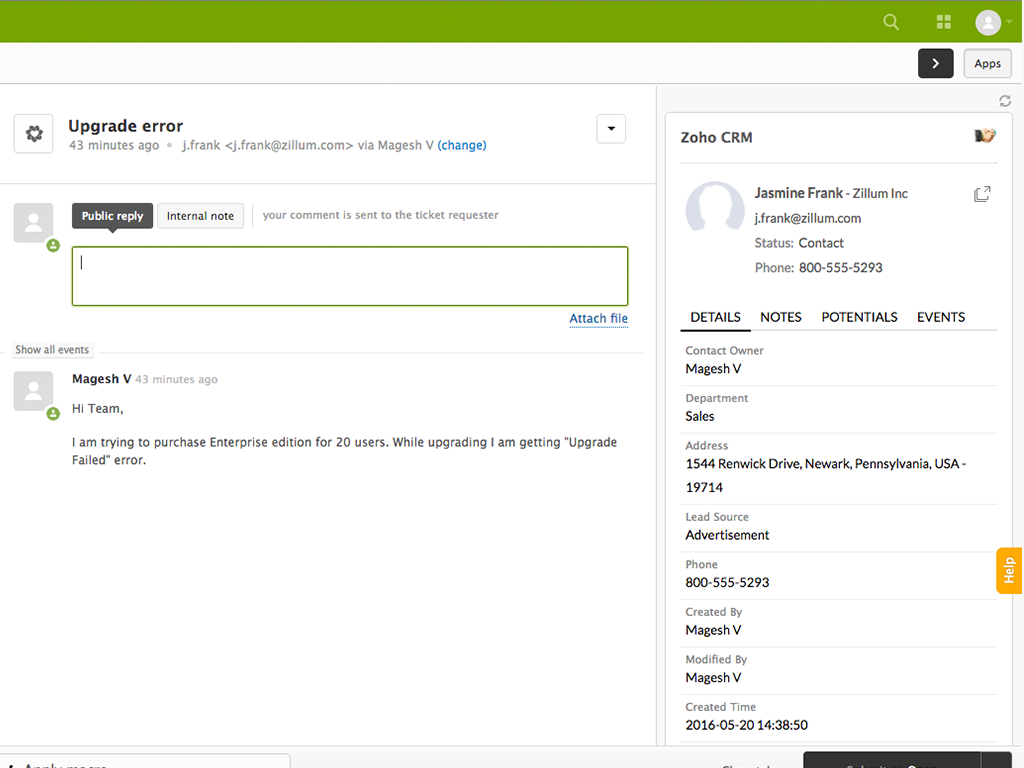
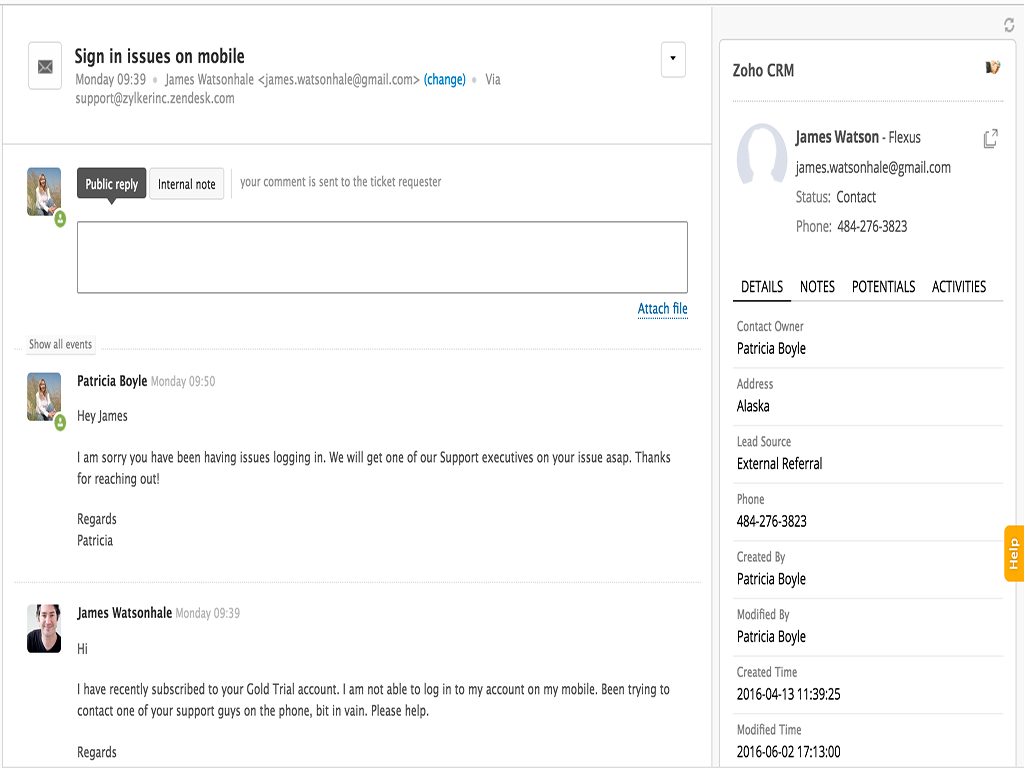
Open Activities provided
Giving Open Activities for the CRM Contact / Lead / Account

diff --git a/app.js b/app.js
@@ -19,6 +19,10 @@
       'get_zcrm_account_info.fail': 'handleFailure',
       'get_related_records.done': 'showRelatedRecords',
       'get_related_records.fail': 'handleSubTabFailure',
+      'get_activities.done': 'showActivities',
+      'get_activities.fail': 'handleSubTabFailure',
+      'get_open_activities.done': 'showOpenActivities',
+      'get_open_activities.fail': 'handleSubTabFailure',
       'click .open-model': function() {
       	if (!this.$('#popupview-model').is(':visible')) {
       		// show popup if its not already open
@@ -54,8 +58,8 @@
       'click .potentials': function() {
       	this.switchSubTab('potentials', 'Potentials');
       },
-      'click .events': function() {
-      	this.switchSubTab('events', 'Events');
+      'click .open_activities': function() {
+      	this.switchSubTab('open_activities', 'Activities');
       },
       'click .open-account': function() {
       	if (!this.$('#popupview-model').is(':visible')) {
@@ -486,24 +490,6 @@
 				finalData.template_name = 'products';
 				finalData.products = productsJson;
 			}
-			else if (relatedModule == 'Events') {
-				var eventsJson = [];
-				_.each(new_records_array, function(record) {
-					var eventInfo = {};
-
-					eventInfo['subject'] = record['Subject'];
-					eventInfo.link = helpers.fmt('%@/crm/EntityInfo.do?module=Events&id=%@', ZOHOCRM_URL, record['ACTIVITYID']);
-					eventInfo['owner'] = record['Event Owner'];
-					eventInfo['start_time'] = record['Start DateTime'];
-					eventInfo['end_time'] = record['End DateTime'];
-					eventInfo['venue'] = (_.has(record, 'Venue') ? record['Venue'] : "--");
-
-					eventsJson.push(eventInfo);
-				});
-
-				finalData.template_name = 'events_activity';
-				finalData.events = eventsJson;
-			}
 		}
 
 		if (typeof(finalData.template_name) == "undefined") {
@@ -513,8 +499,129 @@
 		this.$('.data_div').html(html);
 	},
 
+	showActivities: function(data) {
+		if (typeof(data.relations) != "undefined") {
+			var recordId = this.crm_data.rec_id;
+			var href_val = '';
+
+			_.each(data.relations, function(relation) {
+				if (relation.name === "Activities" && relation.module === "Activities") {
+					href_val = relation.href;
+				}
+			});
+
+			if (href_val !== '') {
+				this.fetchZCRMOpenActivities(href_val, recordId);
+				return;
+			}
+		}
+		
+		this.showSpinner(false);
+		var html = this.renderTemplate('subtab-nodata', {});
+		this.$('.data_div').html(html);
+	},
+
+	showOpenActivities: function(data) {
+		this.showSpinner(false);
+
+		if (typeof(data) == "undefined" || typeof(data.data) == "undefined") {
+			var html = this.renderTemplate('subtab-nodata', {});
+			this.$('.data_div').html(html);
+		}
+		else {
+			var activitiesJson = [];
+			var current_obj = this;
+			_.each(data.data, function(activity) {
+				var activity_id = activity.id;
+				var activity_type = activity.Activity_Type;
+				var activity_owner = activity.Activity_Owner.name;
+				var subject = activity.Subject;
+				var is_event = false;
+				var is_task = false;
+				var is_call = false;
+
+				var orig_activity_owner = activity_owner;
+				if (activity_owner.length > 20) {
+					activity_owner = activity_owner.substring(0, 20) + "...";
+				}
+				var orig_subject = subject;
+				if (subject.length > 30) {
+					subject = subject.substring(0, 30) + "...";
+				}
+
+				var activityInfo = {};
+				activityInfo['type'] = activity_type;
+				activityInfo['owner'] = activity_owner;
+				activityInfo['orig_owner'] = orig_activity_owner;
+				activityInfo['subject'] = subject;
+				activityInfo['orig_subject'] = orig_subject;
+				activityInfo['link'] = helpers.fmt('%@/crm/EntityInfo.do?module=%@&id=%@', current_obj.resources.ZOHOCRM_URL, activity_type, activity_id);
+
+				if (activity_type == 'Events') {
+					is_event = true;
+
+					var date_str = '';
+					var time_str = '';
+					var venue = '';
+
+					var start_datetime = activity.Start_DateTime;
+					var date_obj = new Date(Date.parse(start_datetime));
+					date_str = current_obj.formatDate(date_obj, 'dd/MM/yyyy');
+					time_str = current_obj.formatDate(date_obj, 'HH:mm t');
+
+					if (typeof(activity.Venue) != 'undefined' && activity.Venue != 'null') {
+						venue = activity.Venue;
+					}
+
+					activityInfo['date'] = date_str;
+					activityInfo['time'] = time_str;
+					activityInfo['venue'] = venue;
+				}
+				else if (activity_type == 'Tasks') {
+					is_task = true;
+
+					var activity_status = activity.Status;
+					var priority = activity.Priority;
+					var due_date = activity.Due_Date;
+					if (due_date !== 'null' && due_date !== '') {
+						var due_date_obj = new Date(Date.parse(due_date));
+						due_date = current_obj.formatDate(due_date_obj, 'dd/MM/yyyy');
+					}
+					else {
+						due_date = '';
+					}
+
+					activityInfo['status'] = activity_status;
+					activityInfo['priority'] = priority;
+					activityInfo['due_date'] = due_date;
+				}
+				else if (activity_type == 'Calls') {
+					is_call = true;
+
+					activityInfo['date'] = '';
+					activityInfo['time'] = '';
+					activityInfo['call_type'] = '';
+				}
+				activityInfo.is_event = is_event;
+				activityInfo.is_task = is_task;
+				activityInfo.is_call = is_call;
+
+				activitiesJson.push(activityInfo);
+			});
+
+			var activitiesData = {};
+			activitiesData.open_activities = activitiesJson;
+
+			var activitiesHtml = this.renderTemplate('open_activities', {'data': activitiesData});
+			this.$('.data_div').html(activitiesHtml);
+		}
+	},
+
 	handleSubTabFailure: function() {
 		this.showSpinner(false);
+
+		var html = this.renderTemplate('subtab-error', {});
+		this.$('.data_div').html(html);
 	},
 
 	switchSubTab: function(tab_name, module_name) {
@@ -527,6 +634,9 @@
 			this.$('.data_div').html(html);
 
 			this.showSpinner(false);
+		}
+		else if (tab_name == 'open_activities') {
+			this.fetchZCRMActivities(this.crm_data.module);
 		}
 		else {			
       		this.fetchZCRMRelatedRecords(this.crm_data.module, this.crm_data.rec_id, module_name);
@@ -547,6 +657,14 @@
 
     fetchZCRMRelatedRecords: function(module, recId, relatedModule) {
     	this.ajax('get_related_records', module, recId, relatedModule);
+    },
+
+    fetchZCRMActivities: function(module) {
+    	this.ajax('get_activities', module);
+    },
+
+    fetchZCRMOpenActivities: function(href, entity_id) {
+    	this.ajax('get_open_activities', href, entity_id);
     },
 
     requests: {
@@ -581,6 +699,23 @@
 				dataType: 'json',
 				secure: true
 			};
+		},
+		get_activities: function(module_name) {
+			return {
+				url: helpers.fmt('%@/crm/v2/settings/modules/%@?authtoken={{setting.authtoken}}&scope=crmapi', this.resources.ZOHOCRM_URL, module_name),
+				type: 'GET',
+				dataType: 'json',
+				secure: true
+			};
+		},
+		get_open_activities: function(href, entity_id) {
+			href = href.replace("{ENTITYID}", entity_id);
+			return {
+				url: helpers.fmt('%@/crm/v2/%@?authtoken={{setting.authtoken}}&scope=crmapi', this.resources.ZOHOCRM_URL, href),
+				type: 'GET',
+				dataType: 'json',
+				secure: true
+			};
 		}
     },
 
@@ -597,7 +732,63 @@
 
       this.$('.tabs-menu li').removeClass('current');
       this.$('.tabs-menu li' + itemClass).addClass('current');
-    }
+    },
+
+    formatDate: function(date, format) {
+    	var day = date.getDate(),
+	    month = date.getMonth() + 1,
+	    year = date.getFullYear(),
+	    hours = date.getHours(),
+	    minutes = date.getMinutes(),
+	    seconds = date.getSeconds();
+
+	    if (!format) {
+	        format = "MM/dd/yyyy";
+	    }
+
+	    format = format.replace("MM", month.toString().replace(/^(\d)$/, '0$1'));
+
+	    if (format.indexOf("yyyy") > -1) {
+	        format = format.replace("yyyy", year.toString());
+	    } else if (format.indexOf("yy") > -1) {
+	        format = format.replace("yy", year.toString().substr(2, 2));
+	    }
+
+	    format = format.replace("dd", day.toString().replace(/^(\d)$/, '0$1'));
+
+	    if (format.indexOf("t") > -1) {
+	        if (hours > 11) {
+	            format = format.replace("t", "PM");
+	        } else {
+	            format = format.replace("t", "AM");
+	        }
+	    }
+
+	    if (format.indexOf("HH") > -1) {
+	        format = format.replace("HH", hours.toString().replace(/^(\d)$/, '0$1'));
+	    }
+
+	    if (format.indexOf("hh") > -1) {
+	        if (hours > 12) {
+	            hours -= 12;
+	        }
+
+	        if (hours === 0) {
+	            hours = 12;
+	        }
+	        format = format.replace("hh", hours.toString().replace(/^(\d)$/, '0$1'));
+	    }
+
+	    if (format.indexOf("mm") > -1) {
+	        format = format.replace("mm", minutes.toString().replace(/^(\d)$/, '0$1'));
+	    }
+
+	    if (format.indexOf("ss") > -1) {
+	        format = format.replace("ss", seconds.toString().replace(/^(\d)$/, '0$1'));
+	    }
+
+	    return format;
+	}
   };
 
 }());

diff --git a/app.css b/app.css
@@ -86,7 +86,7 @@ ul {
     line-height: 25px;
     float: left;
     color: #000;
-    padding: 0px 10px 0 10px;
+    padding: 0px 7px 0 7px;
     text-transform: uppercase;
     cursor: pointer;
 }
@@ -207,7 +207,6 @@ ul {
 .light_label {
     display: inline-block;
     color: #888;
-    font-size: 11px;
 }
 
 .data_div {
